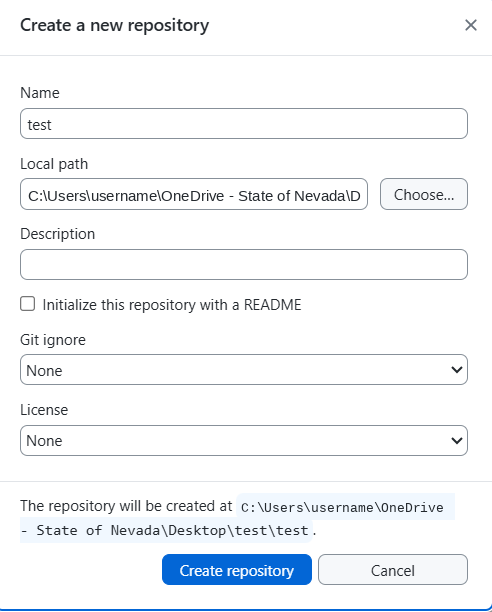
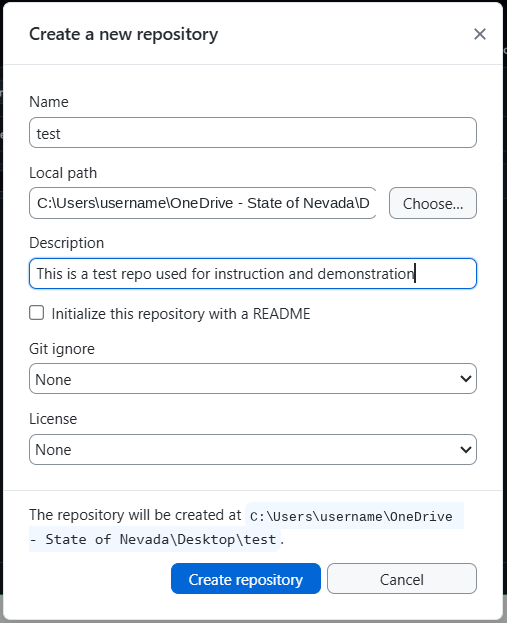
Finish Lesson 4 screenshots; remove unedited originals
- Added History right-click menu and "create a repository" screenshots
- Replaced new-repo dialog screenshot
- Removed original unedited screenshots (one showed a personal email)
- Restored updated screenshot list

Changed region(s): [[0.0, 0.0, 1.0, 1.0], [0.6098, 0.8072, 0.9146, 0.8382]]

diff --git a/_screenshot-list.md b/_screenshot-list.md
@@ -1,82 +1,75 @@
 # Screenshot shot list: Intro to Git & GitHub
 
-Not rendered on the site (the file name starts with `_`). Check off each screenshot as you save it.
+Not rendered on the site (the file name starts with `_`). ✅ = saved and checked. **Take all screenshots on Windows** (github.com pages look the same on any computer, but GitHub Desktop, File Explorer, and terminals must be Windows).
 
-## How to capture
+## How to capture (Windows)
 
-- **Where to save:** `training/images/intro-to-github/`, using the exact file names below.
-- **Mac:** press **Cmd + Shift + 4**, then **Space**, then click a window to capture just that window. Or press **Cmd + Shift + 4** and drag to select an area.
-- **Use a practice setup:** your personal account and a practice repo named `github-practice`. **Not** real NV OSE project repos.
-- **Light mode** in GitHub and GitHub Desktop, for consistency. The site itself handles dark mode.
-- **Don't draw arrows or boxes.** Leave the images clean. Highlights are added afterwards as CSS overlays, so they can be moved without re-editing the image.
-- **Privacy:** before saving, make sure there are no email addresses, real names other than your own, tokens, or notification contents. Tell me if anything needs to be painted out.
-- Crop to the relevant part of the window. Full-screen captures are hard to read.
+- **Where to save:** `training/images/intro-to-github/`. Names don't matter; they get renamed when checked.
+- **Capture:** **Win + Shift + S**, then drag around the area (or choose **Window** mode).
+- **Use a practice repo** (e.g., `github-practice` in your personal account), not real NV OSE projects.
+- **Light mode**, no drawn arrows or boxes (highlights are added afterwards).
+- **Privacy:** avoid **email addresses**, `C:\Users\<you>` paths, **lists of your repos** (they show private names), tokens, and notifications.
+- **Don't commit screenshots until they've been checked**, and don't use **Discard changes** on renamed/cleaned images.
 
 ## Lesson 2: Setting up
 
-- [ ] `02-2fa-settings.png`: github.com → **Settings → Password and authentication**, showing the two-factor authentication section
-- [ ] `02-email-privacy.png`: **Settings → Emails**, showing **Keep my email addresses private** (crop out the email list or blur the addresses)
-- [ ] `02-desktop-accounts.png`: GitHub Desktop → **Settings → Accounts**, signed in
-- [ ] `02-desktop-git-config.png`: GitHub Desktop → **Settings → Git**, showing the name and email fields (blur the email)
-- [ ] `02-git-version.png`: Terminal after running `git --version`
+- [x] `02-2fa-settings.png`: **Settings → Password and authentication**
+- [x] `02-email-privacy.png`: **Settings → Emails**, Keep my email addresses private (emails covered)
+- [x] `02-account-settings.png`: **Settings → Account** (extra)
+- [x] `02-desktop-file-options-menu.png`: GitHub Desktop **File → Options…**
+- [x] `02-desktop-accounts.png`: **Options → Accounts**
+- [x] `02-desktop-git-config.png`: **Options → Git → Author** (email shown as a noreply example)
+- [x] `02-desktop-default-branch.png`: **Options → Git → Default branch**
+- [x] `02-push-failed-private-email.png`: the **Failed to push** private-email error
+- [x] `02-git-version.png`: PowerShell `git --version` (username covered)
 
 ## Lesson 3: Repositories, READMEs, and .gitignore
 
-- [ ] `03-new-repo-menu.png`: the **+** menu (top right of github.com) with **New repository** visible
-- [ ] `03-new-repo-form.png`: the whole **Create a new repository** form: owner, name, description, Public/Private, Add README, .gitignore template, license. Scroll or zoom out to fit it in one shot if you can
-- [ ] `03-repo-front-page.png`: a repo's main page showing the file list and the rendered README below it
-- [ ] `03-edit-readme.png`: editing README.md in the browser (pencil icon), showing the **Edit** and **Preview** tabs
-- [ ] `03-gitignore-file.png`: a `.gitignore` file opened on github.com
+- [x] `03-new-repo-menu.png`, `03-new-repo-form.png`, `03-repo-front-page.png`, `03-readme-rendered.png`
+- [x] `03-edit-file-button.png`, `03-edit-readme.png`, `03-edit-readme-preview.png`, `03-gitignore-file.png`
 
-## Lesson 4: GitHub Desktop
+## Lesson 4: GitHub Desktop ✅ done
 
-- [ ] `04-desktop-overview.png`: the full GitHub Desktop window with a repo open: **Current repository**, **Current branch**, **Fetch origin**, the Changes tab, and the diff
-- [ ] `04-clone-dialog.png`: **File → Clone repository**, showing the list of repos and the Local path
-- [ ] `04-add-local-repo.png`: **File → Add local repository**, showing the "not a Git repository… **create a repository**" message
-- [x] `04-publish-dialog.png`: the **Publish repository** dialog, showing the **Organization** dropdown and **Keep this code private**
-- [ ] `04-changes-tab.png`: Changes tab with 2–3 changed files, one file's diff (red/green lines), and the Summary/Description boxes filled in
-- [ ] `04-push-origin.png`: the top bar after committing, showing **Push origin** with the ↑1 count
-- [ ] `04-pull-origin.png`: the top bar showing **Pull origin** with the ↓ count (make a change on github.com first, then click Fetch)
-- [ ] `04-history-menu.png`: History tab, right-clicking a commit to show **Undo commit / Revert changes in commit**
-- [ ] `04-ignore-file-menu.png`: Changes tab, right-clicking a file to show **Ignore file** and **Discard changes**
+- [x] `04-desktop-welcome.png` (repo list removed), `04-desktop-overview.png`
+- [x] `04-clone-menu.png`, `04-clone-dialog.png` (username covered)
+- [x] `04-add-local-menu.png`, `04-add-local-dialog.png`, `04-add-local-create-repo.png` (username covered)
+- [x] `04-new-repo-dialog.png` (username covered), `04-publish-dialog.png`
+- [x] `04-changes-tab.png`, `04-changes-list.png`, `04-commit-summary-description.png`
+- [x] `04-ignore-file-menu.png`, `04-discard-changes-menu.png`, `04-confirm-discard.png`
+- [x] `04-push-origin.png`, `04-pull-origin.png`, `04-history-tab.png`, `04-history-menu.png`
+- [ ] `04-changes-checkboxes.png` (optional): Changes tab with some files **unchecked**
 
 ## Lesson 5: Command line
 
-- [ ] `05-terminal-status.png`: Terminal showing `git status` output with one modified and one untracked file
-- [ ] `05-empty-repo-setup.png`: github.com's page for a new **empty** repo, showing the "…or push an existing repository from the command line" commands
-- [ ] `05-copy-clone-url.png`: the green **Code** button opened on a repo, showing the HTTPS URL and the copy icon
+- [x] `05-terminal-status.png` (username covered), `05-repo-code-button.png`, `05-copy-clone-url.png`
+- [ ] `05-git-bash.png`: **Git Bash** open, or right-click a folder → **Open Git Bash here**
+- [ ] `05-empty-repo-setup.png`: a new **empty** repo's page with "…or push an existing repository from the command line"
 
-## Lesson 6: Branches and pull requests
+## Lesson 6: Branches and pull requests (next batch, in a practice repo)
 
-- [ ] `06-new-branch.png`: GitHub Desktop **Current branch** dropdown with **New branch** visible
-- [ ] `06-publish-branch.png`: the top bar showing **Publish branch**
-- [ ] `06-create-pr-desktop.png`: GitHub Desktop showing the **Create Pull Request** button / prompt
+- [ ] `06-new-branch.png`: **Current branch** dropdown → **New branch**
+- [ ] `06-publish-branch.png`: **Publish branch** button
+- [ ] `06-create-pr-desktop.png`: **Create Pull Request** in GitHub Desktop
 - [ ] `06-compare-banner.png`: github.com's yellow **Compare & pull request** banner
-- [ ] `06-open-pr-form.png`: the **Open a pull request** form, showing the title, description, and **Reviewers** on the right
-- [ ] `06-files-changed.png`: a PR's **Files changed** tab with a line comment being added (the blue **+**)
-- [ ] `06-review-changes.png`: the **Review changes** box with Comment / Approve / Request changes
-- [ ] `06-merge-pr.png`: the **Merge pull request** button, and then the **Delete branch** button after merging (one or two shots)
-- [ ] `06-conflict-desktop.png`: GitHub Desktop's merge conflict dialog (create one with Exercise 4's bonus)
+- [ ] `06-open-pr-form.png`: **Open a pull request** form (title, description, **Reviewers**)
+- [ ] `06-files-changed.png`: **Files changed** tab with a line comment (blue **+**)
+- [ ] `06-review-changes.png`: **Review changes** box (Comment / Approve / Request changes)
+- [ ] `06-merge-pr.png`: **Merge pull request**, then **Delete branch**
+- [ ] `06-conflict-desktop.png` (optional): GitHub Desktop merge conflict dialog
 
 ## Lesson 7: Clones, forks, and templates
 
-- [ ] `07-fork-button.png`: the **Fork** button on a public repo (e.g., github.com/skills/introduction-to-github)
-- [ ] `07-sync-fork.png`: the **Sync fork** button on a fork's page
-- [ ] `07-use-template.png`: the **Use this template** button on a template repo
+- [ ] `07-fork-button.png`, `07-sync-fork.png`, `07-use-template.png`
 
 ## Lesson 8: Public vs. private
 
-- [ ] `08-visibility-label.png`: a repo header showing the **Public** or **Private** label next to its name
-- [ ] `08-change-visibility.png`: **Settings → Danger Zone → Change visibility** (just view it; don't change anything)
+- [ ] `08-visibility-label.png`: **Public/Private** label next to a repo name
+- [ ] `08-change-visibility.png`: **Settings → Danger Zone → Change visibility** (just view it)
 
 ## Lesson 9: Data security
 
-- [ ] `09-push-protection-setting.png`: personal **Settings → Code security**, showing **Push protection for yourself**
-- [ ] `09-desktop-review.png`: GitHub Desktop Changes tab showing a reviewed diff (can reuse a fake `.env` file in a practice repo to show it **not** appearing, because it's ignored)
-
----
-
-When some or all of these are saved, tell me. I'll look at each image, write its alt text, add the highlight boxes, and place it in the lessons.
+- [ ] `09-push-protection-setting.png`: **Settings → Code security → Push protection for yourself**
+- [ ] `09-desktop-review.png`: Changes tab where an ignored `.env` file does **not** appear
 
 ---
 
